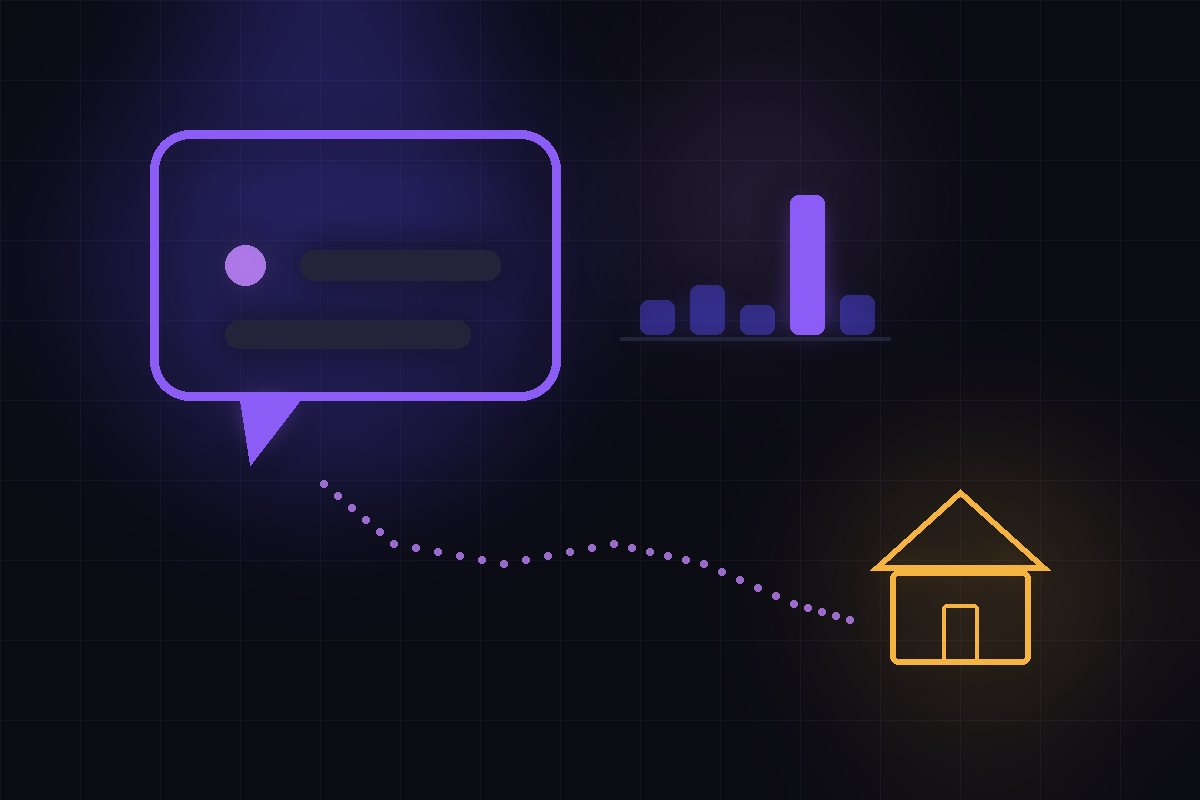
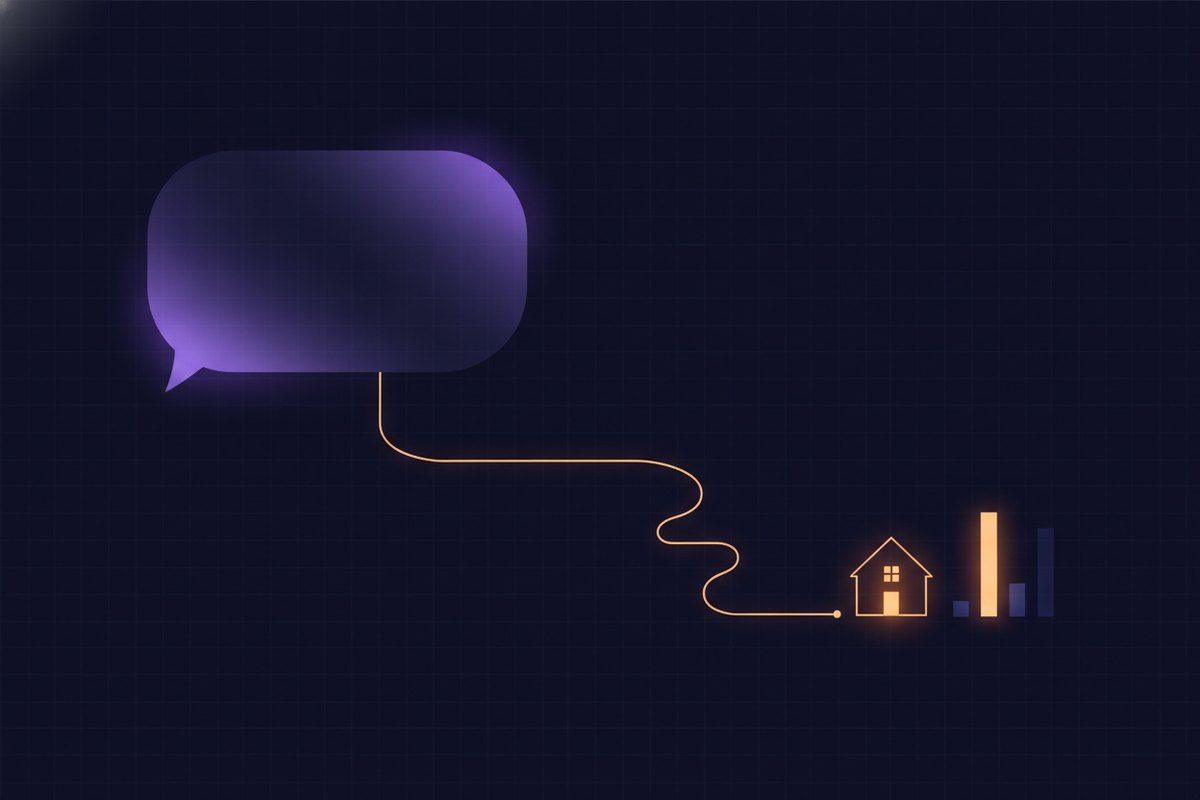
Replace interim Tier 1 hero images with Gemini-generated versions
All three generated with the canonical prompts from
gen_blog_images_gemini.sh (gemini-2.5-flash-image, 3:2, downscaled
to 1200x800 JPEG). The does-ai-search-send-traffic hero was
regenerated once to remove a corner watermark string - the known
quirk. Visually verified text-free and on-palette.

Claude-Session: https://claude.ai/code/session_01TPVs35it43ecTv1UGpPYXc

diff --git a/HANDOFF.md b/HANDOFF.md
@@ -121,7 +121,7 @@ CitedRealty is a full digital-marketing agency for **realtors and real-estate br
 - **Winnable-cluster batch (data-driven pivot, from the OpenSEO citedrealty project):** an OpenSEO pull confirmed the site is a ~3-week-old domain — **1 ranked keyword, 0 organic traffic, 0 backlinks**. Diagnosis: the gap is **domain age + zero authority (backlinks) + targeting terms too competitive for a new site**, NOT content volume (there are 45+ good posts). Response: aim new content at **low-KD winnable terms** (KD 0–15) and at **link-worthy free assets** (which also attack the backlink gap). First two: `real-estate-postcards-guide` (postcards cluster, KD 0–2, ~1,300/mo) and `free-real-estate-marketing-templates` (marketing-materials/templates/tools cluster, KD 0–2; includes a 40+ social-post-ideas list as the shareable/linkable asset, and routes to the free tools hub). **Lesson:** for a new domain, rankings lag content by months — prioritize winnable long-tail + backlinks + confirming GSC indexing, and don't chase head terms like "real estate marketing" yet. OpenSEO project = `citedrealty` (id `f80dafe6-3855-48c9-88b1-1d9fb26060da`, domain citedrealty.com) — NOT the "Default" project (now retainerreach.com).
 - **Leads cluster (user priority, highest commercial intent):** `real-estate-lead-generation-guide` (pillar — bought-vs-owned, exclusive leads, best-way, follow-up; targets *real estate leads / lead generation* ~3,600/mo, and *exclusive real estate leads* in a section) + three spokes: `real-estate-lead-magnets` (targets *real estate lead magnet*; the "10 things before you sell to maximize value" magnet, buyer/seller magnets), `exclusive-real-estate-leads` (targets *exclusive real estate leads*; exclusive-vs-shared, Zillow Flex / Realtor.com / pay-at-closing, honest verdict), and `real-estate-niche-marketing` (the niche-down playbook that generalizes the case study). **First documented case study lives in the lead-magnets post** — see below.
 - **Topic-map diff #3 (2026-07-29, 25-question map → 4 posts):** the user supplied a 25-question topic map (SEO / social / blogging / email / PPC, 5 questions each). Per the standing filtering lesson, the **SEO subtopic was skipped entirely** — all 5 questions already covered by local-seo-2026, on-page-seo, schema-walkthrough, EEAT, neighborhood-page, and digital-marketing-mistakes. The other four subtopics were genuine gaps; each became **one comprehensive post absorbing all 5 of its questions** (H2s + FAQ = the map's questions): `best-social-media-platforms-for-realtors` (honest ranking; social = background check, not discovery; FB workhorse / IG credibility / LinkedIn referrals / YouTube compounds / TikTok lottery), `what-should-real-estate-agents-blog-about` (4 topic families; the post follows its own recommended anatomy, self-referentially), `email-marketing-for-real-estate-agents` (the owned-channel argument; 3-bucket segmentation; open rates ranked honestly with subject lines last; CAN-SPAM hedged per compliance rule), `google-ads-for-real-estate-agents` (seller-intent lane only; portal-term trap; Quality Score linked to Google's own docs; never-homepage rule). All follow brand rules — no invented stats, when-not-to sections, contextual service links. **⚠ Their 4 hero images are interim**: generated programmatically on-palette (PIL) because the Gemini key isn't in the cloud environment. The proper prompts are already in `gen_blog_images_gemini.sh` — run `zsh gen_blog_images_gemini.sh best-social-media-platforms-for-realtors what-should-real-estate-agents-blog-about email-marketing-for-real-estate-agents google-ads-for-real-estate-agents` on the Mac (then `sips` downscale) to replace them.
-- **Tier 1 GEO-skepticism cluster PUBLISHED (2026-07-29, from the Reddit sweep):** the three posts answering r/SEO's "GEO is a scam" case shipped as one cross-linked unit — `is-geo-snake-oil` (featured on the blog index; concedes the true parts, names which parts of our own service are "just SEO"), `how-to-hire-a-geo-agency` (the $4,200-thread buyer's checklist; howto category), and `does-ai-search-send-traffic` (traffic-share objection engaged with the site's existing primary-sourced figures + Ahrefs click-decline data). All three follow the brand pattern (argue the skeptic's case fairly, then show where it stops being true), link the actual Reddit threads `rel='nofollow'` with paraphrase-not-quote discipline, and the first and third use the **anonymized AI-referral proof asset** ("a specialty insurance business we know" — see the plan file's usage rules; naming it publicly still requires the owner's written permission). **⚠ Their 3 hero images are interim PIL placeholders** (same situation as the topic-map batch): proper prompts are already in `gen_blog_images_gemini.sh` — run it for slugs `is-geo-snake-oil how-to-hire-a-geo-agency does-ai-search-send-traffic` on the Mac, then `sips` downscale.
+- **Tier 1 GEO-skepticism cluster PUBLISHED (2026-07-29, from the Reddit sweep):** the three posts answering r/SEO's "GEO is a scam" case shipped as one cross-linked unit — `is-geo-snake-oil` (featured on the blog index; concedes the true parts, names which parts of our own service are "just SEO"), `how-to-hire-a-geo-agency` (the $4,200-thread buyer's checklist; howto category), and `does-ai-search-send-traffic` (traffic-share objection engaged with the site's existing primary-sourced figures + Ahrefs click-decline data). All three follow the brand pattern (argue the skeptic's case fairly, then show where it stops being true), link the actual Reddit threads `rel='nofollow'` with paraphrase-not-quote discipline, and the first and third use the **anonymized AI-referral proof asset** ("a specialty insurance business we know" — see the plan file's usage rules; naming it publicly still requires the owner's written permission). Hero images are **real Gemini-generated** (gemini-2.5-flash-image, generated in-session with the user-provided key, downscaled to 1200×800 via PIL; the traffic hero needed one regeneration to remove a corner watermark — the known quirk from §7 rule 5).
 - **Reddit 30-day sweep (2026-07-29):** `CONTENT-REDDIT-2026-07.md` holds a ranked, linked content plan built from 4,364 real posts across r/realtors, r/RealEstateTechnology, r/RealEstate, r/RealEstateAdvice, r/SEO, and r/GoogleMyBusiness. **The headline finding: r/SEO spent July arguing GEO/AEO is a scam** ("snake oil", "SEO = GEO + 0", a $4,200 AEO agency that delivered backlinks and meta descriptions). Answering the strongest version of that case honestly is the most on-brand, most citable content available to us, and no GEO seller is doing it. Second-best: an r/realtors thread (222 pts) where a buyer's clients told their agent ChatGPT said they overpaid — evidence AI is already in the transaction at the *advice* layer, not just the who-to-hire layer. **Tooling note:** the `/last30days` skill (github.com/mvanhorn/last30days-skill) drives this; Reddit works keyless but needs **Python 3.12+**, and its relevance floor is aggressive — pass the realtor subs via `--dedicated-subreddits` to exempt them. reddit.com's `.json`/`.rss` are 403 from this environment; arctic-shift works with a browser User-Agent header. Re-run instructions are at the bottom of that file.
 - **⭐ First real case study (proof, the §11 gap):** the lead-magnets post publishes the user's **real, confirmed** result — a **1-story-homes-for-downsizers** lead campaign (older buyers want single-story living; stairs are hard on knees) that took **an agent from 5–10 leads/month to 35+**. Published honestly and anonymized ("an agent we worked with"), per the user's explicit go-ahead. This is the first proof point; treat future real client wins the same way (documented, specific, anonymized unless permission to name). **Do NOT invent additional numbers** — this one is real because the user confirmed it.
 
